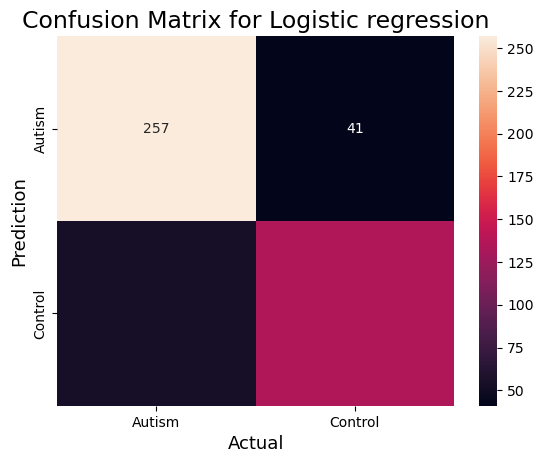
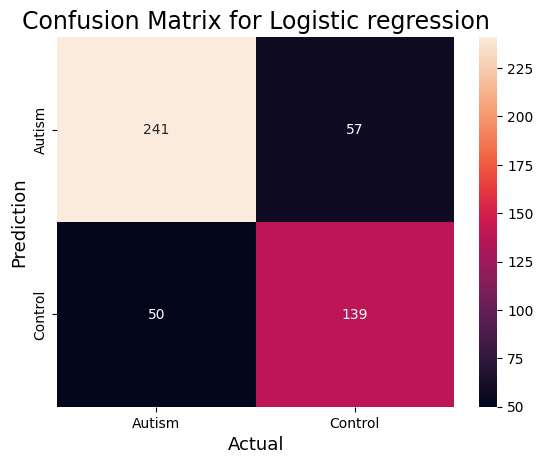
updated code

diff --git a/main.py b/main.py
@@ -17,7 +17,7 @@ from sklearn import svm
 
 
 data1 = pd.read_csv("gxp_dataset.csv")
-data = pd.read_csv("lasso_big_dataset.csv")
+data = pd.read_csv("lasso_dataset.csv")
 temp = pd.DataFrame(data1['label'].to_list(), columns=['labels'])
 
 # data1.drop(['label', 'Sample_ID'], axis=1, inplace=True)
@@ -264,9 +264,6 @@ print(df_lr)
 #print(df_rf)
 #print(df_sv)
 
-
-
-
 # lists_xg = df_xg.columns
 # xg_mean=[]
 # xg_std=[]
@@ -301,8 +298,6 @@ dict_mean = {'Logistic Regression':lr_mean}
 dict_std = {'Logistic Regression':lr_std}
 
 
-
-
 df_mean = pd.DataFrame(dict_mean)
 df_std = pd.DataFrame(dict_std)
 print(df_mean)
@@ -315,6 +310,8 @@ plt.xlabel('Actual', fontsize=13)
 plt.title("Confusion Matrix for Logistic regression", fontsize=17)
 plt.show()
 fig2.savefig('Confusion_matrix.png', bbox_inches='tight')
+
+##Machine heavy code below ------ add comment after running ------
 explainer = shap.KernelExplainer(model_lr.predict, X_train, feature_names=data.columns)
 shap_values = explainer(X_test)
 fig3 = plt.figure()
